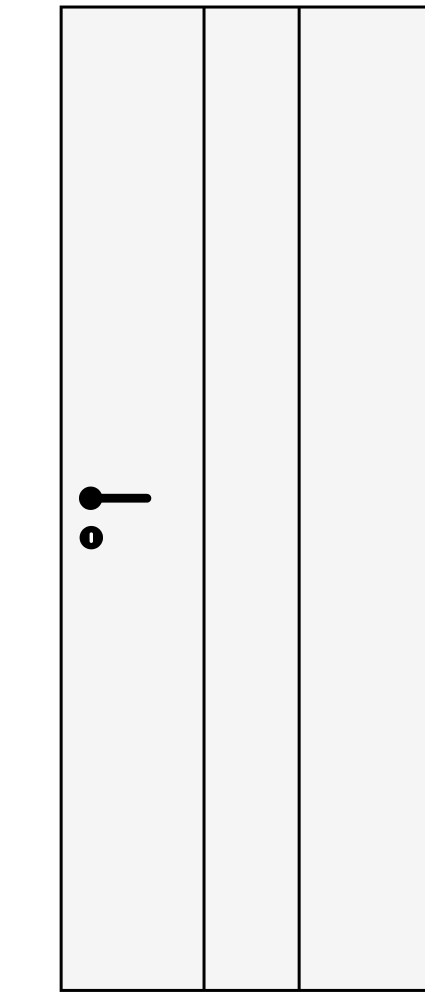
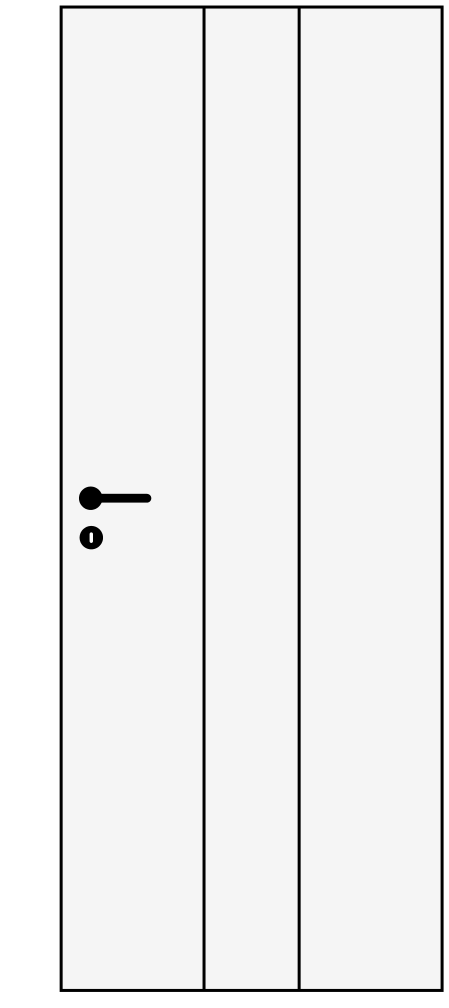
Micro-tune remaining Dors crop outliers

diff --git a/index.html b/index.html
@@ -194,7 +194,7 @@
       const div = document.createElement('article');
       div.className = 'card';
       const rel = row.image_path.replace(/^.*\/images\//, 'images/');
-      const imgSrc = `${rel}?v=20260422e`;
+      const imgSrc = `${rel}?v=20260422f`;
       div.innerHTML = `
         <div class="imgbox"><img loading="lazy" src="${imgSrc}" alt="${row.code}" /></div>
         <div class="meta">
